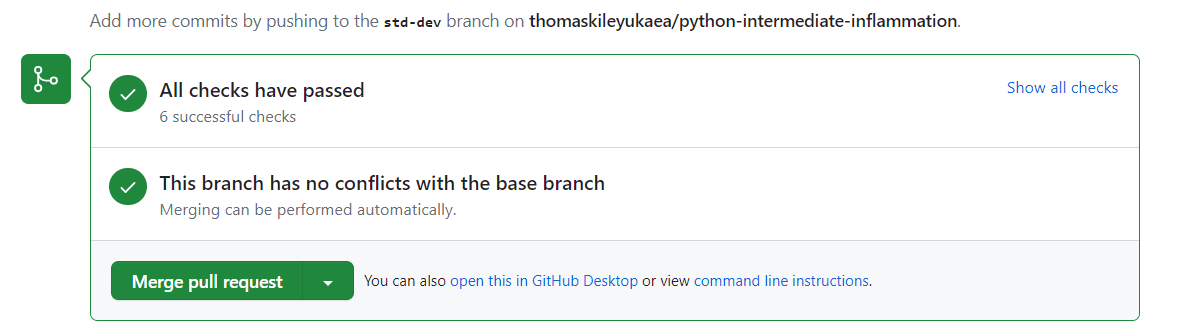
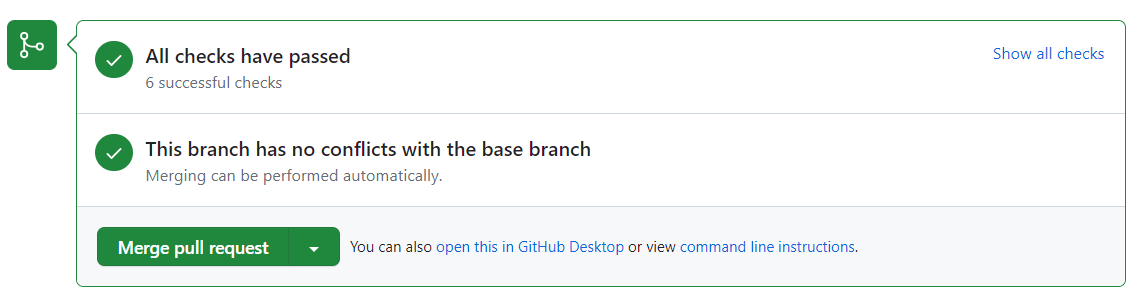
Fixed screenshots. Added a callout about code review

diff --git a/_episodes/41-code-review.md b/_episodes/41-code-review.md
@@ -285,13 +285,19 @@ or else have a meeting to decide whether the code needs to be rewritten.
 
 #### Adding a review comment
 
-1. To be able to add your review to a pull request created on your course mate's repository, 
-they will need to add you as a collaborator on their repository first. They can do that from 
+1. We will start by having your course mate adding you as a collaborator on their repository. 
+They can do that from 
 the `Settings` tab of the repository, then `Collaborators and teams` tab on the left, 
 then clicking the `Add people` button. 
 Once they find you by your GitHub name - you will receive an invitation via email to join the 
 repository as a collaborator. 
 You will have to do the same for the collaborator doing the review on your repository.
+    > ## Code Review from External Contributors
+    > You do not have to be a collaborator on a public repository to do code reviews 
+    > so this step is not strictly necessary. 
+    > We are still asking you to do it now as we will get you working in teams
+    > for the rest of the course so it may make sense to start setting up your collaborators now.
+    {: .callout}
 ![Adding a collaborator in GitHub](../fig/github-add-collaborator.png){: .image-with-shadow width="900px"}
 2. Open up the pull request from the GitHub's `Pull Requests` tab on the home page 
 of your course mate's software repository, then head to the `Files changed` tab.
